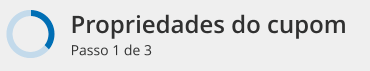
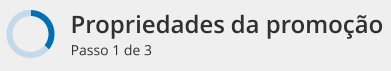
ajustes word;

diff --git a/src/app/promotion/components/open/form-open-products/form-open-products.component.html b/src/app/promotion/components/open/form-open-products/form-open-products.component.html
@@ -9,10 +9,10 @@
 
         <div class="row justify-content-md-center">
             <div class="col-6">
-                <img src="assets/img/step3.PNG" alt="">
+                <img src="assets/img/step3.png" alt="">
             </div>
         </div>
-        
+
         <!-- PRODUCT -->
         <div class="row justify-content-md-center" [formGroup]="productForm">
             <div class="col-6">
@@ -41,7 +41,23 @@
 
                         </div>
 
-
+                        <div class="form-row">
+                            <h5>Modelos para download:</h5>
+                            <div class="col-12">
+                                <h6>
+                                    <a href="assets/templates/percentage.csv" target="_blank">
+                                        <i class="fas fa-file-excel" aria-hidden="true"></i> Porcentagem / Desconto Fixo
+                                    </a>
+                                </h6>
+                            </div>
+                            <div class="col-12">
+                                <h6>
+                                    <a href="assets/templates/pricefixed_novo.csv" target="_blank">
+                                        <i class="fas fa-file-excel" aria-hidden="true"></i> Preço Fixo
+                                    </a>
+                                </h6>
+                            </div>
+                        </div>
                     </mdb-card-body>
 
                 </mdb-card>
@@ -101,7 +117,7 @@
                     [columnMode]="ColumnMode.force" [headerHeight]="50" [footerHeight]="0" rowHeight="auto"
                     [limit]="100">
                     <ngx-datatable-column name="Sku" [width]="40"></ngx-datatable-column>
-                    <ngx-datatable-column name="Status" [width]="20">
+                    <!-- <ngx-datatable-column name="Status" [width]="20">
                         <ng-template let-row="row" ngx-datatable-cell-template>
                             <div *ngIf="row.status == 'ENABLE'" class="enableColor">
                                 <i class="fas fa-circle fa-xs mr-1"></i> Ativo
@@ -110,14 +126,15 @@
                                 <i class="fas fa-circle fa-xs mr-1"></i> Inativo
                             </div>
                         </ng-template>
-                    </ngx-datatable-column>
+                    </ngx-datatable-column> -->
                     <ngx-datatable-column name="Produto" prop="prd"></ngx-datatable-column>
                     <ngx-datatable-column *ngIf="showPrice" name="Promocional" prop="fixedPrice">
                         <ng-template let-rowIndex="rowIndex" let-value="value" let-row="row"
                             ngx-datatable-cell-template>
                             <div *ngIf="row.fixedPrice">
-                                <input name="product" disabled id="fixedPrice-{{rowIndex}}" type="number"
-                                    [value]="row.fixedPrice" class="form-control" mdbInput />
+                                <!-- <input name="product" disabled id="fixedPrice-{{rowIndex}}" type="number"
+                                    [value]="row.fixedPrice" class="form-control" mdbInput /> -->
+                                R$ {{row.fixedPrice | number:'.2-2' }}
                             </div>
                         </ng-template>
                     </ngx-datatable-column>
@@ -129,11 +146,10 @@
                 </ngx-datatable>
             </div>
         </accordion-group>
-        <accordion-group heading="Linhas incluídas com sucesso">
-
+        <accordion-group heading="Linhas não incluídas">
             <div class="col-12">
-                <ngx-datatable style="width: 100%; background: #00ff0014!important;" class="material"
-                    [rows]="responseProducts.successDetails" [columnMode]="ColumnMode.force" [headerHeight]="50"
+                <ngx-datatable style="width: 100%; background: #ff000014!important;" class="material"
+                    [rows]="responseProducts.errorsDetails" [columnMode]="ColumnMode.force" [headerHeight]="50"
                     [footerHeight]="0" rowHeight="auto" [limit]="10">
                     <ngx-datatable-column name="Número da linha" prop="lineNumber" [width]="20"></ngx-datatable-column>
                     <ngx-datatable-column name="Conteúdo da linha" prop="line"></ngx-datatable-column>
@@ -146,10 +162,10 @@
                 </ngx-datatable>
             </div>
         </accordion-group>
-        <accordion-group heading="Linhas não incluídas">
+        <accordion-group heading="Linhas incluídas com sucesso">
             <div class="col-12">
-                <ngx-datatable style="width: 100%; background: #ff000014!important;" class="material"
-                    [rows]="responseProducts.errorsDetails" [columnMode]="ColumnMode.force" [headerHeight]="50"
+                <ngx-datatable style="width: 100%; background: #00ff0014!important;" class="material"
+                    [rows]="responseProducts.successDetails" [columnMode]="ColumnMode.force" [headerHeight]="50"
                     [footerHeight]="0" rowHeight="auto" [limit]="10">
                     <ngx-datatable-column name="Número da linha" prop="lineNumber" [width]="20"></ngx-datatable-column>
                     <ngx-datatable-column name="Conteúdo da linha" prop="line"></ngx-datatable-column>

diff --git a/src/app/promotion/components/open/open-products/open-products.component.html b/src/app/promotion/components/open/open-products/open-products.component.html
@@ -1,19 +1,27 @@
 <!-- <app-breadcrumb [breadcrumbs]="breadcrumbs"></app-breadcrumb> -->
 
 <div class="row animated fadeIn mt-3">
-    <div class="col-6" *ngIf="promotion">
-        <h1>Produtos do cupom {{nameCoupon}} {{promotion.name}}</h1>
+    <div class="col-9" *ngIf="promotion">
+        <h1>Produtos da promoção - {{promotion.name}}</h1>
+    </div>
+    <div class="col-2 offset-1 text-right">
+        <a routerLink="/promotion/open/{{search}}" mdbBtn color="success" mdbWavesEffect
+            class="z-depth-0 waves-effect">Ir para painel</a>
     </div>
 </div>
 
 <div class="row animated fadeIn">
     <div class="col-12">
-        <ngx-datatable style="width: 100%" class="material" [rows]="rows" [columnMode]="ColumnMode.force" [headerHeight]="50" [footerHeight]="50" rowHeight="auto" [limit]="100" [selected]="selected" [selectionType]="SelectionType.checkbox" [selectAllRowsOnPage]="false"
-            [displayCheck]="displayCheck" (activate)="onActivate($event)" (select)="onSelect($event)">
-            <ngx-datatable-column [width]="30" [sortable]="false" [canAutoResize]="false" [draggable]="false" [resizeable]="false" [headerCheckboxable]="true" [checkboxable]="true">
-            </ngx-datatable-column>
+        <!-- [selected]="selected"  [selectionType]="SelectionType.checkbox" -->
+        <ngx-datatable style="width: 100%" class="material" [rows]="rows" [columnMode]="ColumnMode.force"
+            [headerHeight]="50" [footerHeight]="50" rowHeight="auto" [limit]="100"
+            [selectAllRowsOnPage]="false" [displayCheck]="displayCheck"
+            (activate)="onActivate($event)" (select)="onSelect($event)">
+            <!-- <ngx-datatable-column [width]="30" [sortable]="false" [canAutoResize]="false" [draggable]="false"
+                [resizeable]="false" [headerCheckboxable]="true" [checkboxable]="true">
+            </ngx-datatable-column> -->
             <ngx-datatable-column name="Sku" [width]="40"></ngx-datatable-column>
-            <ngx-datatable-column name="Status" [width]="20">
+            <!-- <ngx-datatable-column name="Status" [width]="20">
                 <ng-template let-row="row" ngx-datatable-cell-template>
                     <div *ngIf="row.status == 'ENABLE'" class="enableColor">
                         <i class="fas fa-circle fa-xs mr-1"></i> Ativo
@@ -22,9 +30,8 @@
                         <i class="fas fa-circle fa-xs mr-1"></i> Inativo
                     </div>
                 </ng-template>
-            </ngx-datatable-column>
+            </ngx-datatable-column> -->
             <ngx-datatable-column name="Produto" prop="prd"></ngx-datatable-column>
-
 
             <ngx-datatable-column *ngIf="showPrice" name="Promocional" prop="fixedPrice">
                 <!-- <div [formGroup]="productsForm">
@@ -33,13 +40,13 @@
                     formControlName="product" currencyMask [options]="{ prefix: 'R$ ', thousands: '.', decimal: ',' }"-->
                 <ng-template let-rowIndex="rowIndex" let-value="value" let-row="row" ngx-datatable-cell-template>
                     <div *ngIf="row.fixedPrice">
-                        <input name="product" (change)="updateValue(row.sku,$event.target.value)" id="fixedPrice-{{rowIndex}}" type="number" [value]="row.fixedPrice" class="form-control" mdbInput />
+                        <!-- <input name="product" (change)="updateValue(row.sku,$event.target.value)" id="fixedPrice-{{rowIndex}}" type="number" [value]="row.fixedPrice" class="form-control" mdbInput /> -->
+                        R$ {{row.fixedPrice | number:'.2-2' }}
                     </div>
                 </ng-template>
                 <!-- </div>
 </div> -->
             </ngx-datatable-column>
-
 
             <ngx-datatable-column name="Criado" [width]="20" prop="createdDate">
                 <ng-template let-row="row" ngx-datatable-cell-template>
@@ -52,6 +59,7 @@
 
 <div class="row animated fadeIn">
     <div class="col-5 offset-7 text-right">
-        <a routerLink="/promotion/open/{{search}}" mdbBtn color="success" mdbWavesEffect class="z-depth-0 my-4 waves-effect">Ir para painel</a>
+        <a routerLink="/promotion/open/{{search}}" mdbBtn color="success" mdbWavesEffect
+            class="z-depth-0 my-4 waves-effect">Ir para painel</a>
     </div>
 </div>

diff --git a/src/app/promotion/components/open/form-open/form-open.component.html b/src/app/promotion/components/open/form-open/form-open.component.html
@@ -9,7 +9,7 @@
 
         <div class="row justify-content-md-center">
             <div class="col-6">
-                <img src="assets/img/step1.PNG" alt="">
+                <img src="assets/img/step1.png" alt="">
             </div>
         </div>
 
@@ -80,10 +80,11 @@
                                 <div class="md-form md-outline">
                                     <input id="coupon" type="text" formControlName="tag" length="40"
                                         placeholder="Ex: Desconto Primeira Compra" class="form-control" mdbCharCounter
-                                        mdbInput [ngClass]="{ 'is-invalid': submitted && igF.tag.errors }" />
-                                    <div *ngIf="submitted && igF.tag.errors" class="invalid-feedback">
+                                        mdbInput />
+                                    <!-- [ngClass]="{ 'is-invalid': submitted && igF.tag.errors }" />
+                                   <div *ngIf="submitted && igF.tag.errors" class="invalid-feedback">
                                         <div *ngIf="igF.tag.errors.required">Selo é obrigatório</div>
-                                    </div>
+                                    </div> -->
                                     <label for="coupon">Selo no carrinho do cliente</label>
                                 </div>
                             </div>
@@ -147,6 +148,10 @@
                                         [options]="{ prefix: 'R$ ', thousands: '.', decimal: ',' }"
                                         placeholder="1.000,00" type="text" class="form-control" mdbCharCounter mdbInput
                                         [ngClass]="{ 'is-invalid': submitted && dF.discountValue.errors }" />
+                                    <div *ngIf="submitted && dF.discountValue.errors" class="invalid-feedback">
+                                        <div *ngIf="dF.discountValue.errors.required">Valor é obrigatório</div>
+                                        <div *ngIf="dF.discountValue.errors.min">Valor minimo é de R$ 0.10</div>
+                                    </div>
                                 </div>
                                 <div class="md-form md-outline" *ngIf="dF.discountType.value == 'PERCENTAGE'">
                                     <input currencyMask [options]="{ suffix: ' %', precision: 1}" id="discountValue"

diff --git a/src/app/app.module.ts b/src/app/app.module.ts
@@ -1,15 +1,7 @@
-import { BrowserModule } from '@angular/platform-browser';
-import { NgModule, NO_ERRORS_SCHEMA } from '@angular/core';
-import { NgxDatatableModule } from '@swimlane/ngx-datatable';
+import { NgModule } from '@angular/core';
 import { AppRoutingModule } from './app-routing.module';
 import { AppComponent } from './app.component';
-import { CouponsComponent } from './promotion/components/coupons/coupons.component';
-import {
-  WavesModule, ButtonsModule, CardsModule,
-  MDBBootstrapModule, InputsModule, CheckboxModule, DropdownModule, ChartsModule
-} from 'angular-bootstrap-md';
-import { FormsModule, ReactiveFormsModule } from '@angular/forms';
-import { BrowserAnimationsModule } from '@angular/platform-browser/animations';
+import { MDBBootstrapModule } from 'angular-bootstrap-md';
 import { HeadersComponent } from './shared/components/headers/headers.component';
 import { LoadComponent } from './shared/components/load/load.component';
 import { UtilitiesService } from './shared/services/utilities.service';
@@ -18,15 +10,12 @@ import { HomeComponent } from './home/home.component';
 import { ToastrModule } from 'ngx-toastr';
 import { CommonModule } from '@angular/common';
 import { HttpClientModule, HTTP_INTERCEPTORS } from '@angular/common/http';
-import { NgxMaskModule, IConfig } from 'ngx-mask';
+import { IConfig } from 'ngx-mask';
 import { UtilValidation } from './shared/util/util.validation';
-import { CurrencyMaskModule } from 'ngx-currency-mask';
 import { CurrencyMaskConfig, CURRENCY_MASK_CONFIG } from 'ngx-currency-mask/src/currency-mask.config';
 import { LoginComponent } from './login/login.component';
 import { PromotionModule } from './promotion/promotion.module';
 import { JwtIntercerptorService } from './shared/services/jwt-intercerptor.service';
-import { BreadcrumbComponent } from './shared/components/breadcrumb/breadcrumb.component';
-import { ModalSelectionComponent } from './shared/components/modal/modal-selection/modal-selection.component';
 export const options: Partial<IConfig> | (() => Partial<IConfig>) = {};
 
 export let CustomCurrencyMaskConfig: CurrencyMaskConfig = {
@@ -68,7 +57,7 @@ export let CustomCurrencyMaskConfig: CurrencyMaskConfig = {
       provide: HTTP_INTERCEPTORS,
       useClass: JwtIntercerptorService,
       multi: true,
-    },
+    }
   ],
   bootstrap: [AppComponent]
 })

diff --git a/src/app/promotion/components/open/form-open/form-open.component.ts b/src/app/promotion/components/open/form-open/form-open.component.ts
@@ -164,7 +164,7 @@ export class FormOpenComponent implements OnInit {
       hierarchy: [this.promotion.hierarchy, Validators.required],
       status: [this.promotion.status],
       description: [this.promotion.description],
-      tag: [this.promotion.tag, Validators.required]
+      tag: [this.promotion.tag]
     });
     this.periodForm = this.formBuilder.group({
       startAt: [this.promotion.startAt],
@@ -189,10 +189,10 @@ export class FormOpenComponent implements OnInit {
     if (e === DiscountTypeEnum.Fixed_Price) {
       this.definitionForm.get('discountValue').clearValidators();
     } else {
-      this.definitionForm.get('discountValue').setValidators(Validators.required);
+      this.definitionForm.get('discountValue').setValidators([Validators.required, Validators.min(1)]);
     }
 
-    this.definitionForm.get('discountValue').setValue(null);
+    this.definitionForm.get('discountValue').setValue(0);
     this.periodForm.updateValueAndValidity();
     this.definitionForm.markAsDirty();
   }

diff --git a/src/app/shared/components/headers/headers.component.html b/src/app/shared/components/headers/headers.component.html
@@ -30,8 +30,8 @@
                             Promoção<span class="caret"></span></a>
                         <div *dropdownMenu class="dropdown-menu dropdown dropdown-primary" role="menu">
                             <a class="dropdown-item waves-light" mdbWavesEffect routerLink="/promotion/open" href="#">Vitrine</a>
-                            <a class="dropdown-item waves-light" mdbWavesEffect routerLink="/promotion/coupons" href="#">Cupom</a>
-                            <a class="dropdown-item waves-light" mdbWavesEffect href="#">Vale Presente</a>
+                            <!-- <a class="dropdown-item waves-light" mdbWavesEffect routerLink="/promotion/coupons" href="#">Cupom</a>
+                            <a class="dropdown-item waves-light" mdbWavesEffect href="#">Vale Presente</a> -->
                             <!-- <div class="divider dropdown-divider"></div> -->
                         </div>
                     </li>

diff --git a/src/app/promotion/model/promotion.model.ts b/src/app/promotion/model/promotion.model.ts
@@ -48,19 +48,19 @@ export class Promotion {
         this.campaignChannel = null; // TODO: VERIFICAR
         this.createdBy = 'form@promotion'; // TODO: REMOVER
         this.createdDate = null;
-        this.description = '';
+        this.description = null;
         this.hierarchy = null;
         this.discountType = DiscountTypeEnum.Percentage;
         this.discountValue = 0;
-        this.endAt = '';
+        this.endAt = null;
         this.hierarchy = null;
-        this.id = '';
-        this.name = '';
+        this.id = null;
+        this.name = null;
         this.partner = null; // TODO: VERIFICAR
         this.products = new Array<Product>();
         this.promotionType = 'OPEN';
-        this.tag = '';
-        this.startAt = '';
+        this.tag = null;
+        this.startAt = null;
         this.status = StatusEnum.Desactive;
         this.updatedBy = 'form@promotion'; // TODO: REMOVER
         this.updatedDate = null;

diff --git a/src/app/promotion/components/open/form-open-stocks/form-open-stocks.component.html b/src/app/promotion/components/open/form-open-stocks/form-open-stocks.component.html
@@ -6,7 +6,7 @@
 
     <div class="row justify-content-md-center">
         <div class="col-6">
-            <img src="assets/img/step3.PNG" alt="">
+            <img src="assets/img/step3.png" alt="">
         </div>
     </div>
 
@@ -21,7 +21,7 @@
                     <div class="form-row">
                         <div class="col-12">
                             <h5>Disponibilização de canal de venda e estoque</h5>
-                            <h6 class="font-weight-light">Defina os canais da Fast Shop onde o cupom será aplicado.</h6>
+                            <h6 class="font-weight-light">Defina os canais da Fast Shop onde a promoção será aplicada.</h6>
                         </div>
                     </div>
                     <!-- Grupo de tabelas de vendas -->

diff --git a/src/app/promotion/components/open/form-open-restrictions/form-open-restrictions.component.html b/src/app/promotion/components/open/form-open-restrictions/form-open-restrictions.component.html
@@ -8,7 +8,7 @@
 
         <div class="row justify-content-md-center">
             <div class="col-6">
-                <img src="assets/img/step2.PNG" alt="">
+                <img src="assets/img/step2.png" alt="">
             </div>
         </div>
 
